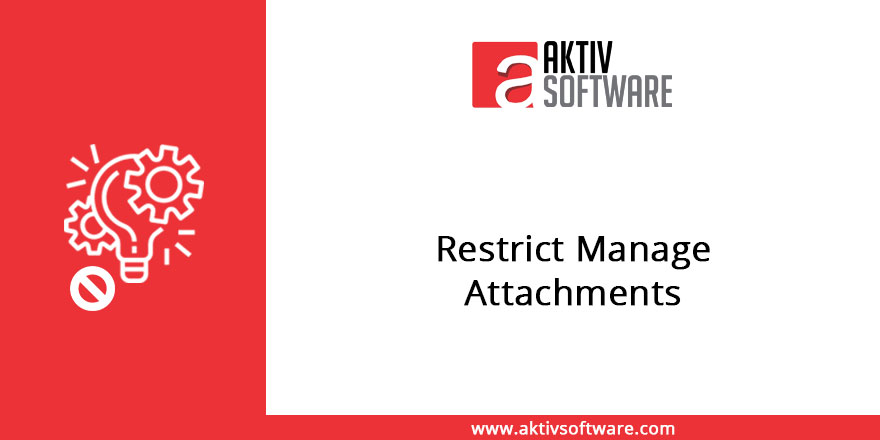
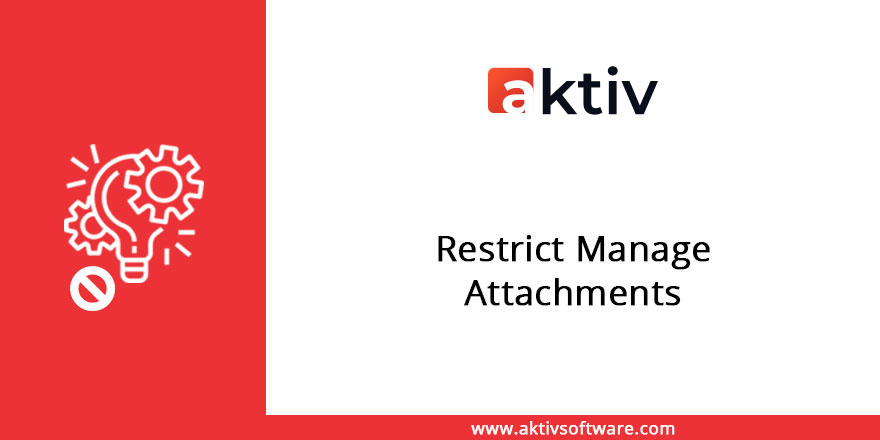
[ADD] change image in 10.0

Changed region(s): [[0.5216, 0.0886, 0.767, 0.2659]]

diff --git a/restrict_manage_attachments/static/description/index.html b/restrict_manage_attachments/static/description/index.html
@@ -57,7 +57,7 @@
     <div class="oe_row oe_spaced">
         <h2 class="oe_slogan">
             <a href="http://www.aktivsoftware.com/" target="new">
-                <img src="http://www.aktivsoftware.com/wp-content/uploads/2018/01/logo-1.png"/>
+                <img src="aktiv-logo.png"/>
             </a>
             <br/>
             <a href="mailto:sales@aktivsoftware.com" style="color: #000000 !important;">
